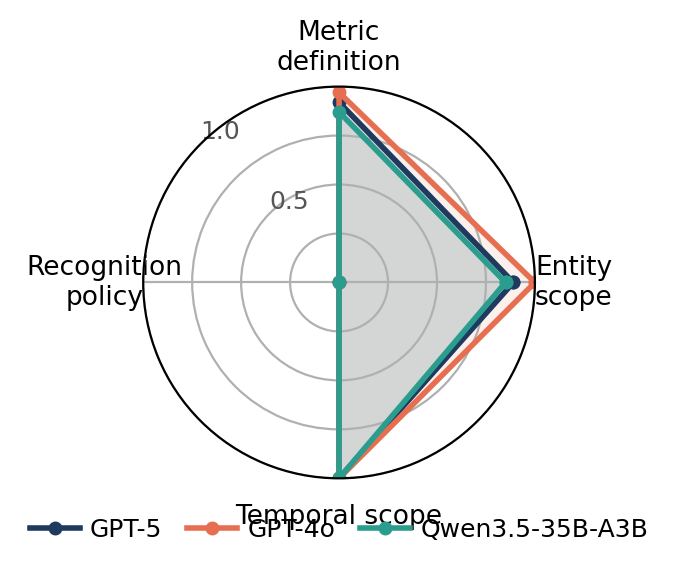
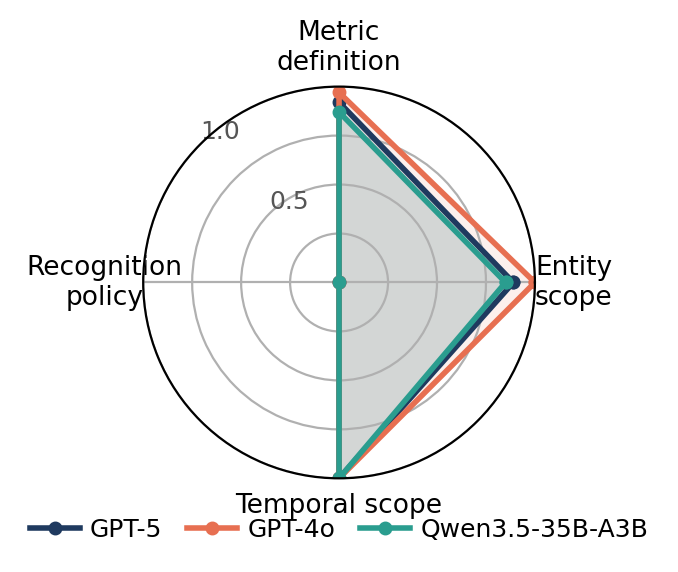
fig_radar: nudge Temporal scope label ~4pt higher

Changed region(s): [[0.3407, 0.8619, 0.6504, 0.9213]]

diff --git a/scripts/plot_capability_radar.py b/scripts/plot_capability_radar.py
@@ -16,6 +16,7 @@ import numpy as np
 import matplotlib
 matplotlib.use("Agg")
 import matplotlib.pyplot as plt
+from matplotlib.transforms import ScaledTranslation
 matplotlib.rcParams["pdf.fonttype"] = 42
 matplotlib.rcParams["ps.fonttype"] = 42
 
@@ -42,6 +43,10 @@ def main(a):
         ax.fill(angles, v, color=COLORS[name], alpha=0.10)
     ax.set_xticks(angles[:-1])
     ax.set_xticklabels(AXES, fontsize=9.5)
+    # nudge the bottom "Temporal scope" label ~4pt higher (toward the plot)
+    temporal = ax.get_xticklabels()[3]
+    temporal.set_transform(temporal.get_transform()
+                           + ScaledTranslation(0, 4 / 72, fig.dpi_scale_trans))
     ax.set_ylim(0, 1.0)
     ax.set_yticks([0.25, 0.5, 0.75, 1.0])
     ax.set_yticklabels(["", "0.5", "", "1.0"], fontsize=9, color="#555")
